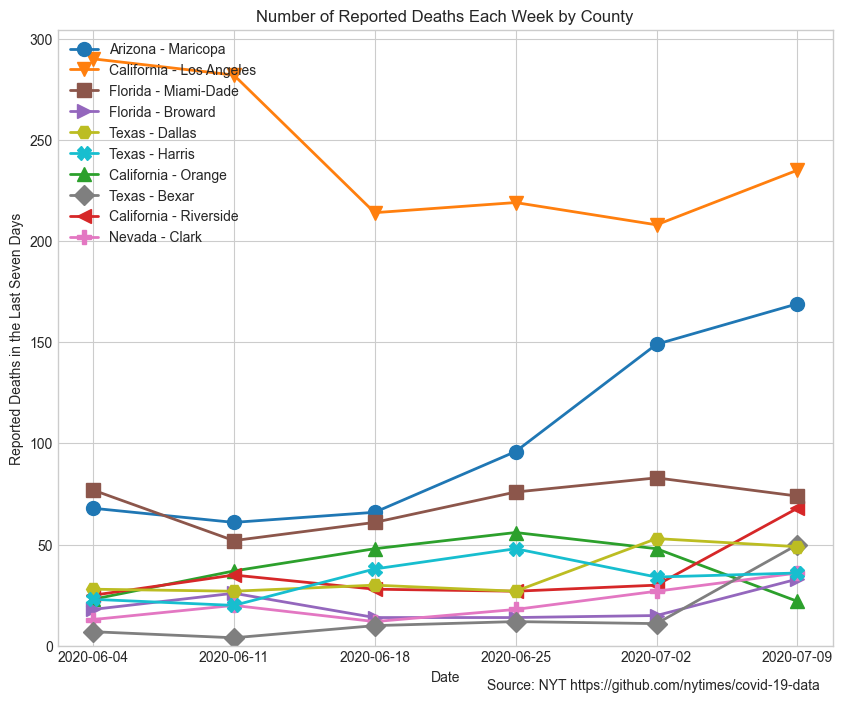
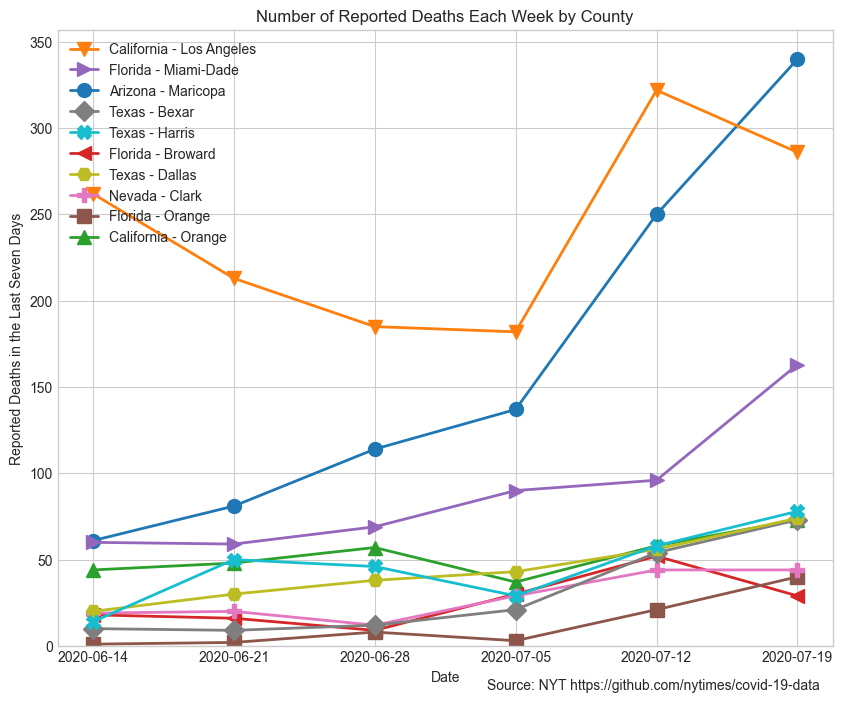
update with 7/19 data

diff --git a/README.md b/README.md
@@ -1,6 +1,6 @@
 # Coronavirus in the U.S.
 
-The plots below show the ten states and ten counties with the most reported cases of Covid-19 in the last seven days, as of July 9, 2020. 
+The plots below show the ten states and ten counties with the most reported cases of Covid-19 in the last seven days, as of July 19, 2020. 
 
 ## Reported cases by state
 
